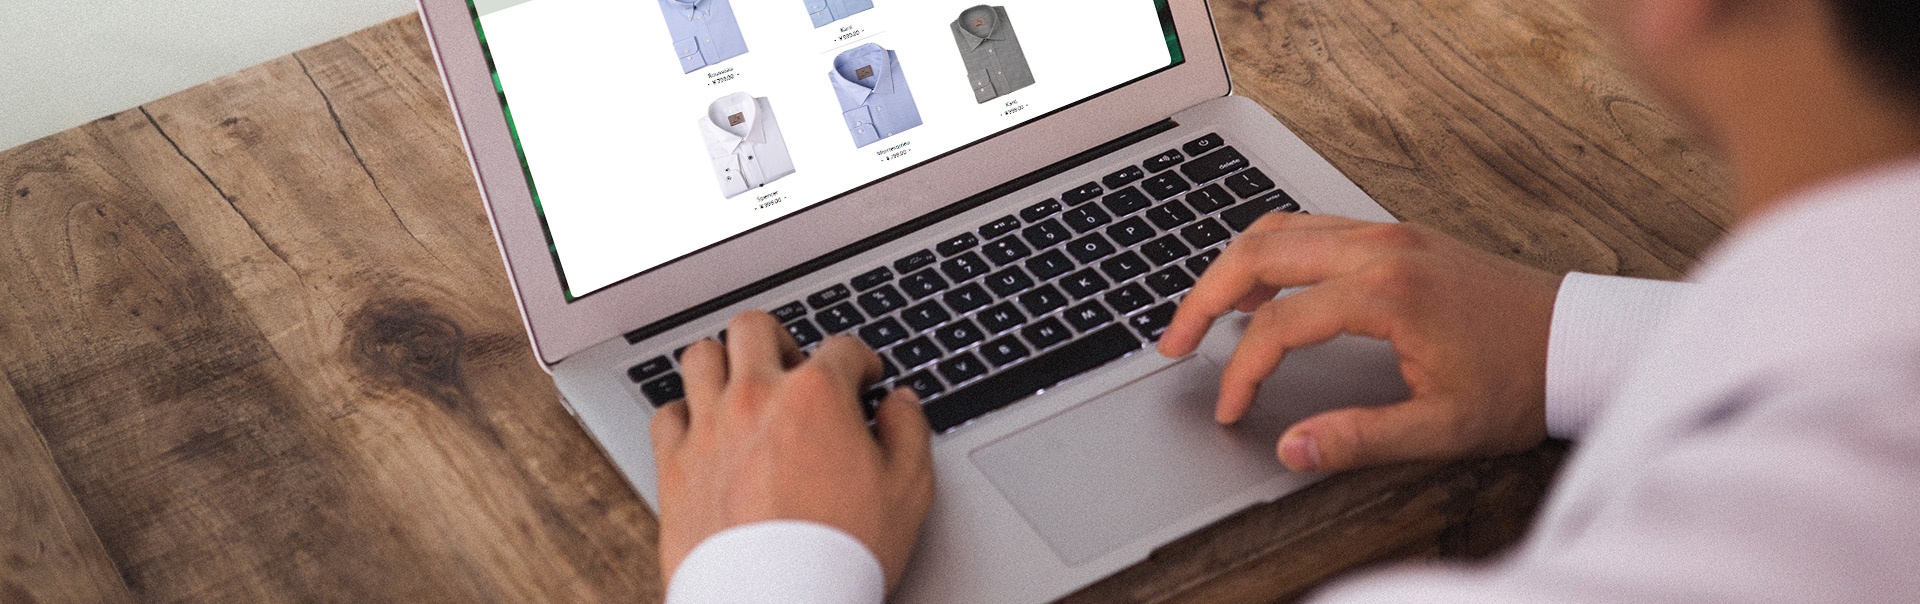
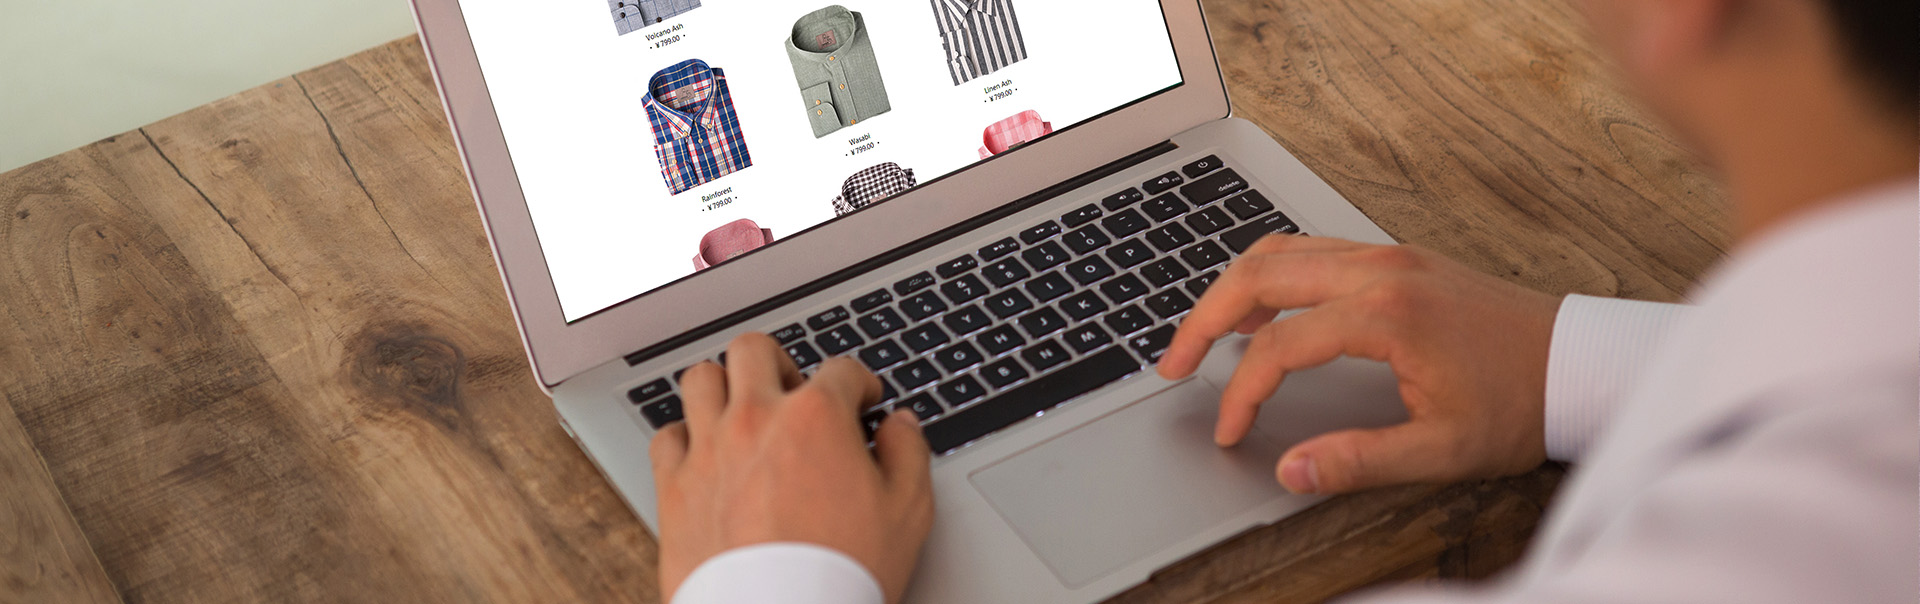
商品详情页版型图片放大使用高清图

diff --git a/FabriTailor/productDetail.html b/FabriTailor/productDetail.html
@@ -657,7 +657,7 @@
                     return;
                 $zoomContainer.find(".description h2").text($(this).data("title") || "");
                 $zoomContainer.find(".description p").text($(this).data("description") || "");
-                $zoomContainer.find(".image").attr("src", $(this).find(".image img").attr("src"));
+                $zoomContainer.find(".image").attr("src", $(this).find(".image img").data("image-hd") || $(this).find(".image img").attr("src"));
                 $zoomContainer.fadeTo("normal", 1, EASING_NAME);
             });
             $zoomContainer.click(function () {
@@ -820,7 +820,7 @@
             $step.find(".options .option").removeClass("active");
             $(this).addClass("active");
             if ($step.data("bg-img-change")) {
-                var src = $(this).find(".image img").attr("src");
+                var src = $(this).find(".image img").data("image-hd") || $(this).find(".image img").attr("src");
                 $bgImg = $step.children(".bg-img");
                 if ($bgImg.attr("src") != src) {
                     var $newImg = $('<img class="bg-img" />');
